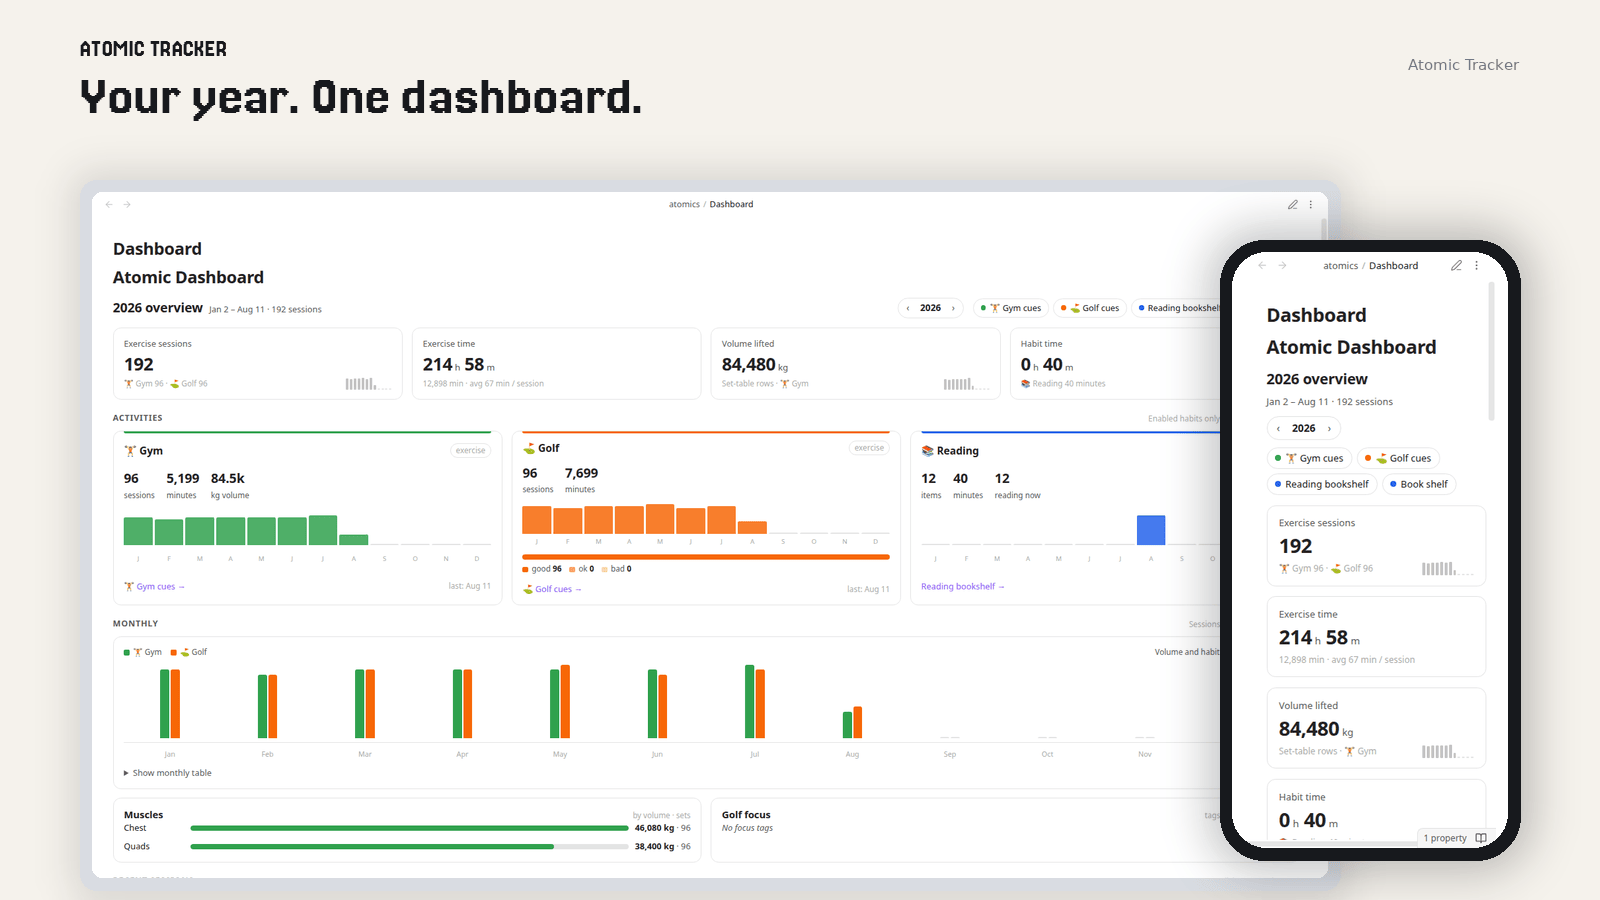
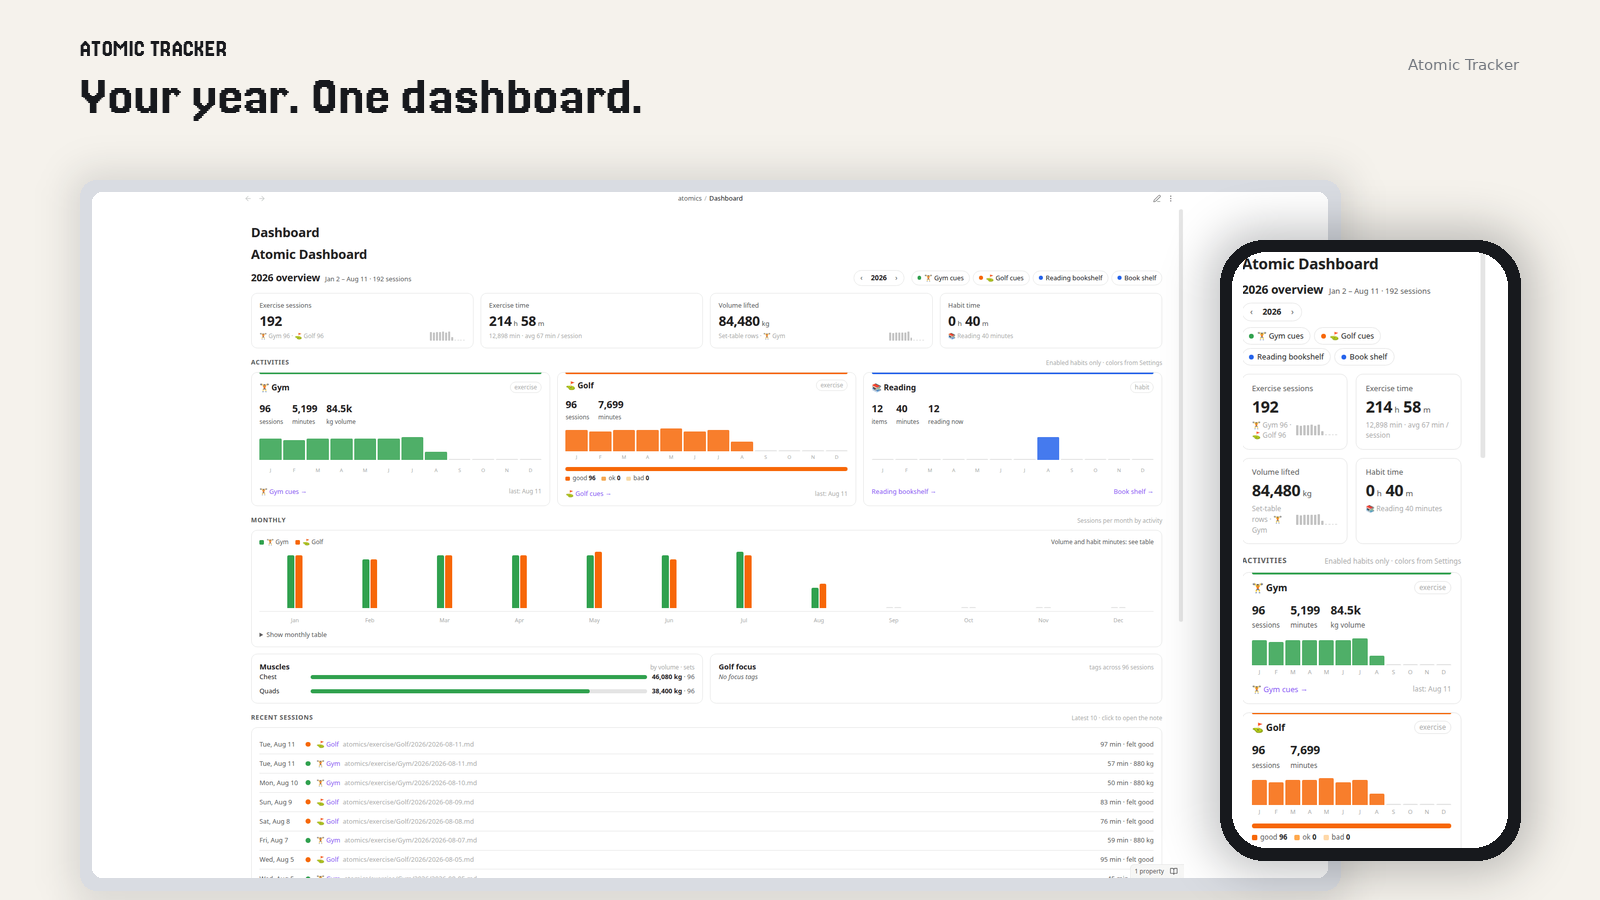
docs: show more dashboard in the hero phone frame (#74)

diff --git a/scripts/compose-device-hero.py b/scripts/compose-device-hero.py
@@ -82,9 +82,26 @@ def crop_window_chrome(src: Image.Image) -> Image.Image:
             left = x
             break
 
+    top = max(top, electron_titlebar_height(image))
     if top == 0 and left == 0:
         return image
     return image.crop((left, top, width, height))
+
+
+def electron_titlebar_height(image: Image.Image) -> int:
+    """Find the first row of body text below a Linux Electron title bar."""
+    width, height = image.size
+    pixels = image.load()
+    limit = min(height, 96)
+    for y in range(limit):
+        dark = 0
+        for x in range(width // 10, (width * 3) // 4, 3):
+            red, green, blue = pixels[x, y]
+            if 0.299 * red + 0.587 * green + 0.114 * blue < 90:
+                dark += 1
+                if dark >= 4:
+                    return max(0, y - 10)
+    return 0
 
 
 def contain(src: Image.Image, size: tuple[int, int], background: str) -> Image.Image:
@@ -109,17 +126,46 @@ def cover_top(src: Image.Image, size: tuple[int, int]) -> Image.Image:
     return resized.crop((left, 0, left + target_w, target_h))
 
 
+def trim_phone_safe_area(src: Image.Image) -> Image.Image:
+    """Drop a typical iOS status bar and home-indicator inset from a screenshot."""
+    image = src.convert("RGB")
+    width, height = image.size
+    if height < 400 or width / height > 0.72:
+        return image
+    top = max(10, round(height * 0.045))
+    bottom = max(10, round(height * 0.028))
+    if top + bottom >= height:
+        return image
+    return image.crop((0, top, width, height - bottom))
+
+
+def fit_frame(src: Image.Image, size: tuple[int, int], mode: str, background: str) -> Image.Image:
+    if mode == "cover-top":
+        return cover_top(src, size)
+    if mode == "contain":
+        return contain(src, size, background)
+    raise ValueError(f"unknown fit mode: {mode}")
+
+
 def compose(
     desktop: Image.Image,
     mobile: Image.Image,
     copy: HeroCopy | None = None,
     crop_chrome: bool = False,
     desktop_fit: str = "contain",
+    phone_fit: str = "contain",
+    mobile_kind: str = "window",
 ) -> Image.Image:
     text = copy or HeroCopy()
     if crop_chrome:
         desktop = crop_window_chrome(desktop)
-        mobile = crop_window_chrome(mobile)
+    if mobile_kind == "phone":
+        mobile = trim_phone_safe_area(mobile)
+    elif mobile_kind == "window":
+        if crop_chrome:
+            mobile = crop_window_chrome(mobile)
+    else:
+        raise ValueError(f"unknown mobile kind: {mobile_kind}")
 
     canvas = Image.new("RGB", (WIDTH, HEIGHT), BACKGROUND)
     draw = ImageDraw.Draw(canvas)
@@ -161,10 +207,7 @@ def compose(
         DESKTOP_CARD[2] - DESKTOP_CARD[0] - DESKTOP_INSET * 2,
         DESKTOP_CARD[3] - DESKTOP_CARD[1] - DESKTOP_INSET * 2,
     )
-    if desktop_fit == "cover-top":
-        desktop_image = cover_top(desktop, desktop_box)
-    else:
-        desktop_image = contain(desktop, desktop_box, "#FFFFFF")
+    desktop_image = fit_frame(desktop, desktop_box, desktop_fit, "#FFFFFF")
     desktop_mask = rounded_mask(desktop_box, 10)
     canvas.paste(
         desktop_image,
@@ -188,7 +231,7 @@ def compose(
         PHONE_FRAME[2] - PHONE_FRAME[0] - PHONE_INSET * 2,
         PHONE_FRAME[3] - PHONE_FRAME[1] - PHONE_INSET * 2,
     )
-    phone_image = contain(mobile, phone_box, "#FFFFFF")
+    phone_image = fit_frame(mobile, phone_box, phone_fit, "#FFFFFF")
     phone_mask = rounded_mask(phone_box, 34)
     canvas.paste(
         phone_image,
@@ -217,6 +260,18 @@ def main() -> None:
         default="contain",
         help="How the desktop shot fills its card (daily hero uses contain)",
     )
+    parser.add_argument(
+        "--phone-fit",
+        choices=("contain", "cover-top"),
+        default="contain",
+        help="How the mobile shot fills the device frame (daily hero uses contain)",
+    )
+    parser.add_argument(
+        "--mobile-kind",
+        choices=("window", "phone"),
+        default="window",
+        help="window: crop OS chrome when --crop-chrome is set. phone: trim iOS insets",
+    )
     args = parser.parse_args()
 
     for value in (args.desktop, args.mobile):
@@ -229,6 +284,8 @@ def main() -> None:
         HeroCopy(kicker=args.kicker, headline=args.headline, label=args.label),
         crop_chrome=args.crop_chrome,
         desktop_fit=args.desktop_fit,
+        phone_fit=args.phone_fit,
+        mobile_kind=args.mobile_kind,
     )
     Path(args.out).parent.mkdir(parents=True, exist_ok=True)
     out.save(args.out, "PNG", optimize=True)
